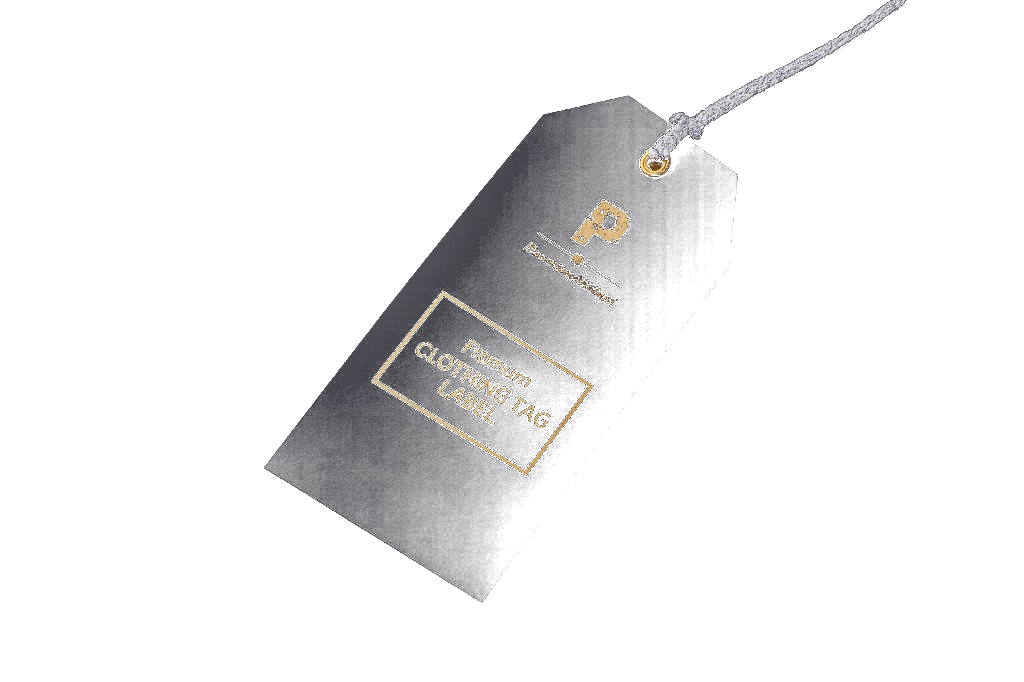
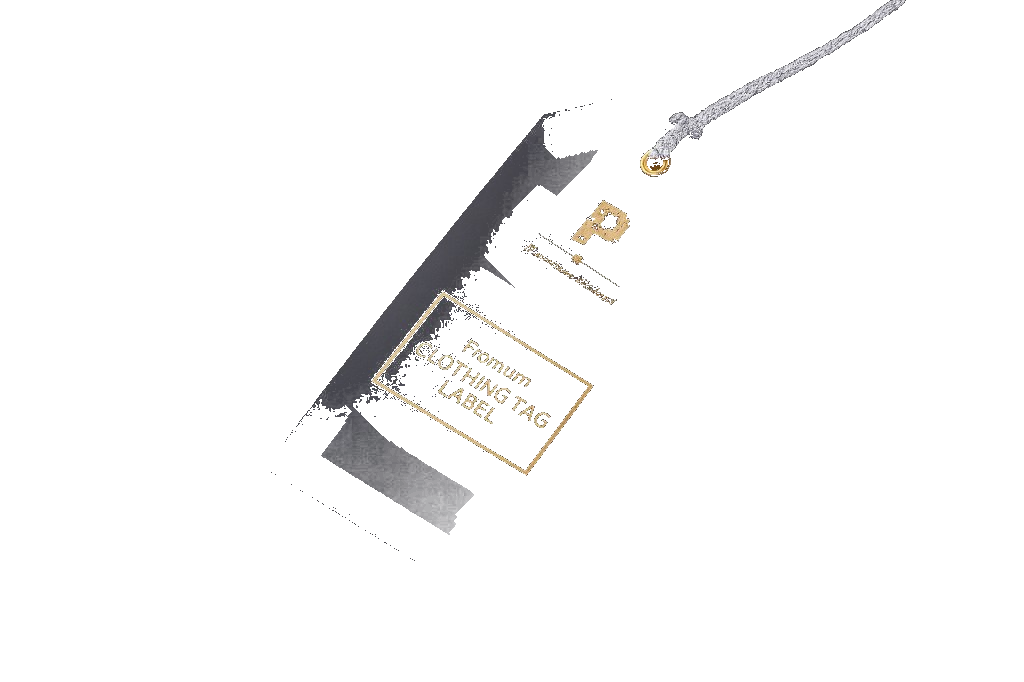
Fix preview black halo and bust PNG cache
Peel dark edge pixels from transparent PNGs; add ?v cache busters; use seamless preview strip in dark mode.

Changed region(s): [[0.25, 0.1232, 0.7188, 0.893]]

diff --git a/ek-printers-backend/public/index.html b/ek-printers-backend/public/index.html
@@ -620,8 +620,9 @@ document.addEventListener('DOMContentLoaded', () => {
   .prod-modal-body{padding:0 2rem 2rem}
   .prod-modal-name{font-family:var(--font-heading);font-weight:600;font-size:1.7rem;letter-spacing:-0.02em;line-height:1.1;margin-bottom:0.4rem}
   .prod-modal-desc{font-size:0.85rem;color:rgba(22,20,18,0.55);line-height:1.7;margin-bottom:1.5rem}
-  .prod-preview-wrap{display:none;margin:0 0 1.25rem;padding:1rem;text-align:center;background:linear-gradient(145deg,#f4f2ee 0%,#ebe8e1 100%);border-radius:16px;border:1px solid rgba(22,20,18,0.06)}
-  body.dark-mode .prod-preview-wrap{background:rgba(255,255,255,0.05);border-color:rgba(236,239,241,0.12)}
+  .prod-preview-wrap{display:none;margin:0 0 1.1rem;padding:0.65rem 0;text-align:center;background:transparent;border:none}
+  body:not(.dark-mode) .prod-preview-wrap{padding:1rem;background:linear-gradient(145deg,#f4f2ee 0%,#ebe8e1 100%);border-radius:16px;border:1px solid rgba(22,20,18,0.06)}
+  body.dark-mode .prod-preview-wrap{background:transparent;border:none}
   .prod-preview-img{max-width:100%;height:auto;max-height:min(52vh,240px);width:auto;object-fit:contain;vertical-align:middle}
   .prod-section-title{font-size:0.68rem;font-weight:700;letter-spacing:0.1em;text-transform:uppercase;color:rgba(22,20,18,0.35);margin-bottom:0.8rem;margin-top:1.5rem}
   .prod-materials{display:flex;flex-wrap:wrap;gap:0.5rem;margin-bottom:0.5rem}
@@ -687,6 +688,12 @@ document.addEventListener('DOMContentLoaded', () => {
 </div>
 
 <script>
+const PREVIEW_ASSET_VER = '5';
+
+function previewAssetUrl(filename) {
+  return filename + '?v=' + PREVIEW_ASSET_VER;
+}
+
 const PRODUCTS = {
   'Business Cards': {
     icon:'💳', color:'var(--light)',
@@ -774,9 +781,9 @@ const PRODUCTS = {
   }
 };
 
-function getSelectedBcFinish() {
+function getSelectedMaterialPick() {
   const btn = document.querySelector('#pm-materials button.prod-tag.highlight');
-  return btn ? btn.textContent.trim() : 'Normal';
+  return btn ? btn.textContent.trim() : '';
 }
 
 function openProdModal(productName) {
@@ -795,8 +802,8 @@ function openProdModal(productName) {
   if (hasPreview) {
     previewWrap.style.display = 'block';
     const first = p.materials[0];
-    previewImg.src = previewMap[first];
-    previewImg.alt = first + ' — business card preview';
+    previewImg.src = previewAssetUrl(previewMap[first]);
+    previewImg.alt = first + ' — preview';
     document.getElementById('pm-materials').innerHTML = p.materials.map(m => {
       const on = m === first ? ' highlight' : '';
       return `<button type="button" class="prod-tag prod-tag--interactive${on}" data-bc-finish="${m}">${m}</button>`;
@@ -808,8 +815,8 @@ function openProdModal(productName) {
         const key = btn.getAttribute('data-bc-finish');
         const file = previewMap[key];
         if (file) {
-          previewImg.src = file;
-          previewImg.alt = key + ' — business card preview';
+          previewImg.src = previewAssetUrl(file);
+          previewImg.alt = key + ' — preview';
         }
       });
     });
@@ -836,11 +843,11 @@ function openProdModal(productName) {
 
   // Quote button
   document.getElementById('pm-quote-btn').onclick = () => {
-    const bcFinish = productName === 'Business Cards' ? getSelectedBcFinish() : '';
+    const materialPick = hasPreview ? getSelectedMaterialPick() : '';
     closeProdModal();
     document.getElementById('contact').scrollIntoView({behavior:'smooth'});
     setTimeout(() => {
-      const finish = bcFinish ? ` (${bcFinish})` : '';
+      const finish = materialPick ? ` (${materialPick})` : '';
       document.getElementById('q-req').value = productName + finish + ' — ';
       const modalQty = document.getElementById('pm-qty').value.trim();
       if (modalQty) document.getElementById('q-qty').value = modalQty;
@@ -859,8 +866,8 @@ function openProdModal(productName) {
       document.getElementById('pm-qty').focus();
       return;
     }
-    const bcSel = productName === 'Business Cards' ? getSelectedBcFinish() : '';
-    const finishLine = bcSel ? `Finish: ${bcSel}\n` : '';
+    const materialPick = hasPreview ? getSelectedMaterialPick() : '';
+    const finishLine = materialPick ? `Finish: ${materialPick}\n` : '';
     const waMsg = encodeURIComponent(
       `Hi EK Printers!\n` +
       `I am interested in ${productName}.\n` +

diff --git a/ek-printers-backend/scripts/peel_png_edges.py b/ek-printers-backend/scripts/peel_png_edges.py
@@ -1,0 +1,61 @@
+"""
+Remove dark pixels that sit on the boundary of transparency (common after studio-bg
+removal). This reduces visible rectangular halos on dark-themed UIs.
+"""
+from __future__ import annotations
+
+from pathlib import Path
+
+import numpy as np
+from PIL import Image
+
+
+PUBLIC = Path(__file__).resolve().parent.parent / "public"
+FILES = sorted([*PUBLIC.glob("bc-*.png"), *PUBLIC.glob("ht-*.png")])
+
+
+def luma(rgb: np.ndarray) -> np.ndarray:
+    r = rgb[..., 0].astype(np.float32)
+    g = rgb[..., 1].astype(np.float32)
+    b = rgb[..., 2].astype(np.float32)
+    return 0.299 * r + 0.587 * g + 0.114 * b
+
+
+def peel_edges(rgba: np.ndarray, *, luma_thresh: float = 68.0, max_iter: int = 48) -> np.ndarray:
+    im = rgba.copy()
+    h, w = im.shape[:2]
+    for _ in range(max_iter):
+        a = im[..., 3].astype(np.uint16)
+        if not np.any(a > 0):
+            break
+        lu = luma(im[..., :3])
+        # transparent neighbor (4-connectivity)
+        up = np.zeros_like(a)
+        down = np.zeros_like(a)
+        left = np.zeros_like(a)
+        right = np.zeros_like(a)
+        if h > 1:
+            up[1:, :] = a[:-1, :]
+            down[:-1, :] = a[1:, :]
+        if w > 1:
+            left[:, 1:] = a[:, :-1]
+            right[:, :-1] = a[:, 1:]
+        neigh_t = (up == 0) | (down == 0) | (left == 0) | (right == 0)
+        kill = (a > 0) & neigh_t & (lu < luma_thresh)
+        if not np.any(kill):
+            break
+        im[kill] = 0
+    return im
+
+
+def main() -> None:
+    for path in FILES:
+        img = Image.open(path).convert("RGBA")
+        arr = np.array(img)
+        out = peel_edges(arr)
+        Image.fromarray(out).save(path, format="PNG", optimize=True)
+        print(path.name, "ok")
+
+
+if __name__ == "__main__":
+    main()
